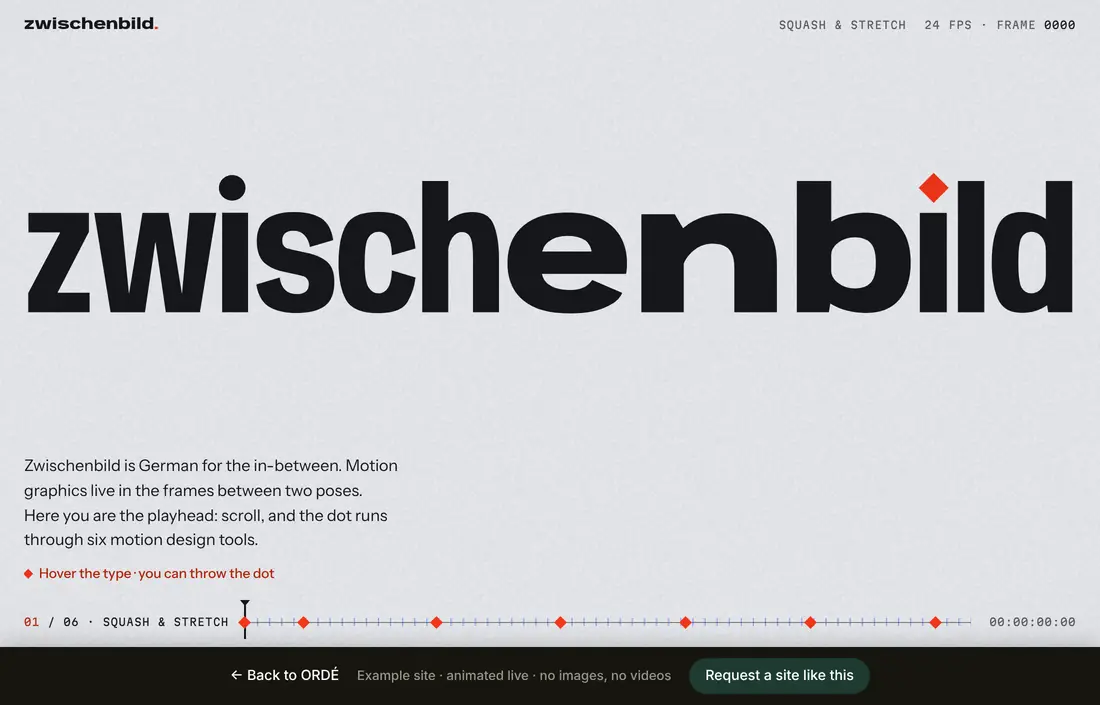
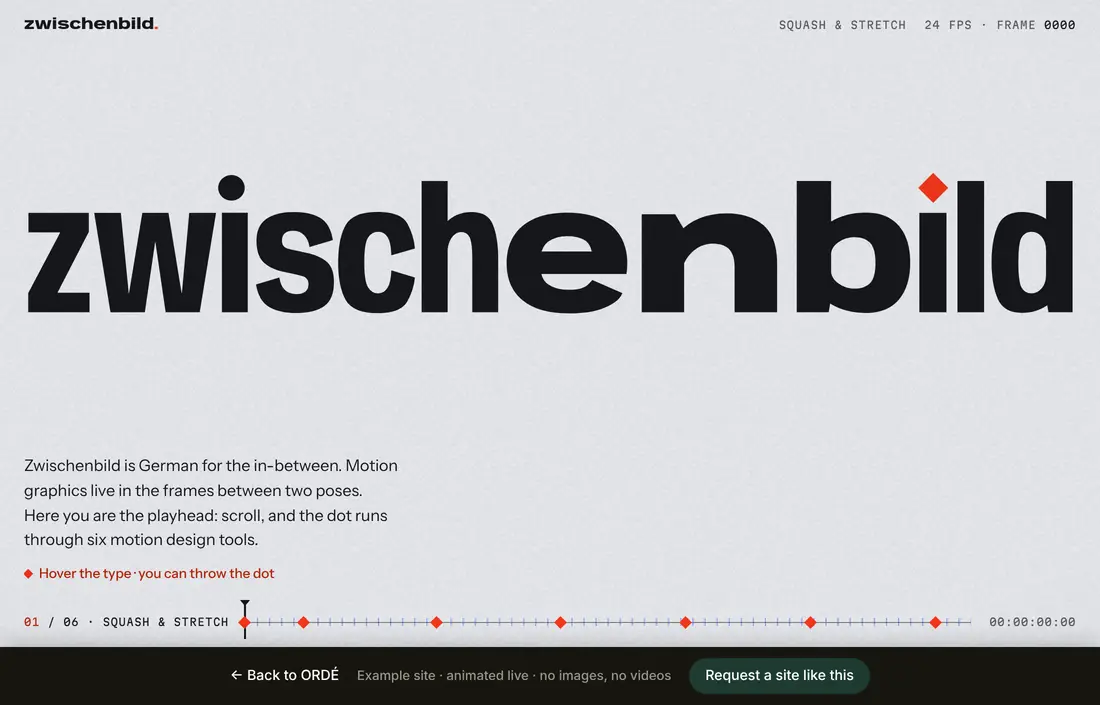
Zwischenbild: Riesenwort hinter jeder Szene
Das Werkzeugwort steht riesig in Papierton hinter der Grafik und führt sein
Werkzeug selbst aus: atmet mit der Easing-Kurve, morpht in der Breite, wird
mit der Linie beschnitten, stapelt Kopien, hüpft in der Stagger-Welle.
Vorschaubilder neu.

Claude-Session: https://claude.ai/code/session_01Y1TQqoiUWHJQJgLAwjVxL5

Changed region(s): [[0.8345, 0.2496, 0.8655, 0.2809]]

diff --git a/demos/zwischenbild/index.html b/demos/zwischenbild/index.html
@@ -28,6 +28,9 @@
    - Text: jede Szene steigt mit ihrem eigenen Werkzeug ein (Overshoot, Formmaske, Trim-Strich, Kopien, Stagger),
      keine Kennzeile über Überschriften (impeccable); Szene und Nummer stehen in der Zeitleiste (ORDE-STIL Regel 21)
    - Neigung nach Scrolltempo (Lenis-Tempo als skewY), Korn und Vignette über allem
+   - Riesenwort hinter jeder Szene (Muster von motionsites.ai, Nachtrag 20.11.2026): das Werkzeugwort in
+     Papierton, und es führt sein Werkzeug selbst aus (atmet mit der Kurve, morpht in der Breite, wird
+     beschnitten, stapelt Kopien, hüpft in der Welle). Schrift und Grafik verschränkt, live statt Video.
    - Handwerk: Pixeldichte höchstens 2, bei langsamem Gerät 1; Lenis aus bei "weniger Bewegung"
    - Text in Rot/Blau nur in den dunklen Texttönen (5,3 : 1 und 5,9 : 1), helle Töne nur für Formen
    - Referenzen (awesome-design-md, nur Rhythmus): framer (Seite als Arbeitsfläche, Akzent für Auswahl und Fokus),
@@ -41,6 +44,7 @@
   --rot:#F2361A;
   --blau-text:#2448D8;
   --blau-hell:#B9C7FF;
+  --papier-tief:#D8DBE2;
   --rot-text:#B8240B;
   --a1:8px;--a2:12px;--a3:16px;--a4:24px;--a5:32px;--a6:48px;
   --linie:rgba(21,23,28,.16);
@@ -65,7 +69,15 @@ a{color:inherit}
 html{scrollbar-color:var(--graphit) var(--papier);scrollbar-width:thin}
 :focus-visible{outline:2px solid var(--blau);outline-offset:3px}
 
-#leinwand{position:fixed;inset:0;width:100%;height:100%;z-index:0;pointer-events:none;display:block}
+#leinwand{position:fixed;inset:0;width:100%;height:100%;z-index:1;pointer-events:none;display:block}
+/* Riesenwort hinter der Grafik: das Wort führt sein Werkzeug selbst aus */
+.riesen{position:fixed;inset:0;z-index:0;pointer-events:none;overflow:hidden}
+.rw{position:absolute;left:50%;top:0;transform:translateX(-50%);white-space:nowrap;overflow:hidden;padding:.06em .04em .1em;font:900 100px/.9 var(--display);letter-spacing:-.035em;color:var(--papier-tief);font-variation-settings:"wdth" 100}
+.rw-m{display:inline-block}
+.rw-m>span{display:inline-block}
+.rw-i{display:inline-block;transform:translateY(135%);transition:transform .3s var(--raus)}
+.rw.an .rw-i{transform:none;transition:transform 1.1s var(--rein) .25s}
+@media (prefers-reduced-motion:reduce){.rw-i,.rw.an .rw-i{transition:none}}
 .korn{position:fixed;inset:-50%;z-index:40;pointer-events:none;opacity:.07;mix-blend-mode:multiply;background-size:180px 180px}
 .vignette{position:fixed;inset:0;z-index:39;pointer-events:none;background:radial-gradient(120% 90% at 50% 45%,transparent 55%,rgba(21,23,28,.07))}
 
@@ -183,6 +195,13 @@ main{position:relative;z-index:2}
 </head>
 <body>
 <canvas id="leinwand" aria-hidden="true"></canvas>
+<div class="riesen" aria-hidden="true">
+  <span class="rw" data-szene="easing"><span class="rw-i"><span class="rw-m">Easing</span></span></span>
+  <span class="rw" data-szene="morph"><span class="rw-i"><span class="rw-m">Morph</span></span></span>
+  <span class="rw" data-szene="trim"><span class="rw-i"><span class="rw-m">Trim</span></span></span>
+  <span class="rw" data-szene="repeater"><span class="rw-i"><span class="rw-m">Repeat</span></span></span>
+  <span class="rw" data-szene="stagger"><span class="rw-i"><span class="rw-m">Stagger</span></span></span>
+</div>
 <div class="vignette" aria-hidden="true"></div>
 <div class="korn" id="korn" aria-hidden="true"></div>
 
@@ -323,7 +342,7 @@ function groesse() {
   if (mobil) { x0 = 16; x1 = W - 16; y0 = oben + 34; y1 = Math.max(y0 + 200, H * .56); }
   else { x0 = Math.max(W * .40, 470); x1 = W - Math.max(40, W * .05); y0 = oben + 20; y1 = H - balken - 70; }
   K = { x0, x1, y0, y1, cx: (x0 + x1) / 2, cy: (y0 + y1) / 2, w: x1 - x0, h: y1 - y0, s: Math.min(x1 - x0, y1 - y0) };
-  rasterBauen(); easingLayout(); titelEinpassen();
+  rasterBauen(); easingLayout(); titelEinpassen(); riesenEinpassen();
 }
 
 /* ---------- Zeichnen ---------- */
@@ -613,6 +632,49 @@ function repKopie(i, n, p, tw) {
 const wortEls = $$(".end-titel .w");
 let hopZuletzt = -1;
 
+/* ---------- Riesenwort ---------- */
+const RW = { wert: 0, mk: 0, me: 0, ta: 0, te: 1, rn: 0, rspin: 0, sk: 0, sq: 0, san: false };
+const rws = Object.fromEntries($$(".rw").map((el) => [el.dataset.szene, { el, m: el.querySelector(".rw-m"), zuletzt: "" }]));
+// Stagger-Wort in Buchstaben teilen
+(() => { const m = rws.stagger.m, t = m.textContent; m.textContent = ""; [...t].forEach((c) => { const s = document.createElement("span"); s.textContent = c; m.appendChild(s); }); rws.stagger.bu = [...m.children]; })();
+const MORPH_BREITE = [100, 58, 142, 66, 134, 100];
+const TIEF = rgb(farbe("--papier-tief")), PAPIER = rgb(farbe("--papier"));
+function riesenEinpassen() {
+  for (const k in rws) {
+    const r = rws[k];
+    r.el.style.fontSize = "100px"; r.m.style.cssText = ""; r.el.style.fontVariationSettings = "";
+    if (k === "morph") r.el.style.fontVariationSettings = `"wdth" ${Math.max(...MORPH_BREITE)}`;
+    if (k === "easing") r.m.style.letterSpacing = ".02em";
+    const b = r.el.offsetWidth;
+    r.m.style.cssText = ""; r.el.style.fontVariationSettings = "";
+    const fs = Math.min(100 * (W - (mobil ? 24 : 40)) / b, mobil ? K.h * .42 : H * .44);
+    r.el.style.fontSize = fs + "px";
+    r.el.style.top = (K.cy - fs * .58) + "px";
+    r.zuletzt = "";
+  }
+}
+function riesenwort(id, p, an) {
+  for (const k in rws) rws[k].el.classList.toggle("an", k === id && an);
+  const r = rws[id]; if (!r) return;
+  let stil = "";
+  if (id === "easing") stil = `letter-spacing:${(lerp(-.035, .02, clamp(RW.wert, -.2, 1.25))).toFixed(4)}em`;
+  else if (id === "morph") { const wd = lerp(MORPH_BREITE[RW.mk], MORPH_BREITE[RW.mk + 1], RW.me); r.el.style.fontVariationSettings = `"wdth" ${wd.toFixed(1)}`; }
+  else if (id === "trim") stil = `clip-path:inset(0 ${((1 - RW.te) * 100).toFixed(2)}% 0 ${(RW.ta * 100).toFixed(2)}%)`;
+  else if (id === "repeater") {
+    const n = Math.round(RW.rn * 10), sch = [], a = RW.rspin * 1.5 + .7;
+    for (let i = 1; i <= n; i++) { const f = i / 11; sch.push(`${(Math.cos(a) * i * .018).toFixed(4)}em ${(Math.sin(a) * i * .018).toFixed(4)}em 0 ${mische(TIEF, PAPIER, f)}`); }
+    stil = `text-shadow:${sch.length ? sch.join(",") : "none"}`;
+  } else if (id === "stagger") {
+    const bu = rws.stagger.bu, nB = bu.length;
+    bu.forEach((s, i) => {
+      const u = i / (nB - 1), d = [u, Math.abs(u - .5) * 2, 1 - u, hash(i + 3)][RW.sk];
+      const ph = RW.san ? clamp((RW.sq * 1.6 - d * .6 - .1) / .5) : 0, w = Math.sin(Math.PI * ph);
+      s.style.transform = w > .001 ? `translateY(${(-w * .14).toFixed(3)}em) scale(${(1 - w * .22).toFixed(3)})` : "";
+    });
+  }
+  if (stil !== r.zuletzt) { r.m.style.cssText = stil; r.zuletzt = stil; }
+}
+
 /* ---------- Rendern ---------- */
 let letzteZeit = performance.now() / 1000, zeit = 0;
 const hudBild = $("#hudBild"), hudWert = $("#hudWert"), zlNr = $("#zlNr"), zlName = $("#zlName"), zlZeit = $("#zlZeit"), kopf = $("#kopf"), spur = $("#spur");
@@ -667,6 +729,7 @@ function bild() {
   else if (id === "stagger") wert = szeneStagger(p, dt);
   else wert = szeneAbspann(p, dt);
   if (wert !== letzterWert) { hudWert.textContent = wert; letzterWert = wert; }
+  riesenwort(id, p, textAn);
   if (id !== "held") buchstabenBewegen(zeit, dt, false);
   requestAnimationFrame(bild);
 }
@@ -810,6 +873,7 @@ function szeneEasing(p, dt) {
   const s = tempo("ease", x, yy, dt);
   ball(x, yy, rr, { vx: aus > 0 ? s.vx * .3 : s.vx, vy: s.vy * .3 });
   const kurv = (eigene.slot === z.k && eigene.b) ? { n: "eigene Kurve" } : KURVEN[z.k];
+  RW.wert = z.wert;
   setzeText(kurveText, `cubic-bezier(${b.map((v) => +v.toFixed(2)).join(", ")}) · ${kurv.n}`);
   return `Kurve ${kurv.n} · t ${komma(z.t, 2)}`;
 }
@@ -847,6 +911,7 @@ function transformRahmen(b, a, cx, cy) {
 function szeneMorph(p, dt) {
   const R0 = K.s * .34, cx = K.cx, cy = K.cy;
   const st = morphZustand(p);
+  RW.mk = st.k; RW.me = st.e;
   // Feder: gedrückt sinkt die Form ein, losgelassen schwingt sie nach
   const ziel = druck.an ? .74 : 1;
   druck.v += (ziel - druck.s) * (druck.an ? 90 : 520) * dt; druck.v *= Math.exp(-(druck.an ? 14 : 7) * dt); druck.s += druck.v * dt;
@@ -891,6 +956,7 @@ function szeneTrim(p, dt) {
   if (seg(p, .86, .99) > 0) zug(pts, 0, 1, mische(RGB.blau, RGB.rot, z), lerp(1, lwEnde, expoInOut(z)));
   else zug(pts, 0, 1, führ > 0 ? mische(RGB.graphit, RGB.blau, führ) : C.graphit, lerp(3, 1, führ));
   // Drei Linien jagen sich
+  RW.ta = seg(p, .33, .8) >= 1 ? 1 : 0; RW.te = 1;
   const farben = [C.graphit, C.rot, C.blau], breiten = [5, 3.2, 3.2];
   let txt = "Anfang 0 % · Ende 100 %";
   for (let j = 0; j < 3; j++) {
@@ -898,6 +964,7 @@ function szeneTrim(p, dt) {
     if (q <= 0 || q >= 1) continue;
     const ende = expoInOut(clamp(q * 1.35)), anfang = expoInOut(clamp(q * 1.35 - .35));
     zug(pts, anfang, ende, farben[j], breiten[j]);
+    if (j === 0) { RW.ta = anfang; RW.te = ende; }
     if (j === 0) txt = `Anfang ${Math.round(anfang * 100)} % · Ende ${Math.round(ende * 100)} % · Versatz 3`;
   }
   setzeText(trimText, txt);
@@ -909,6 +976,7 @@ function szeneRepeater(p, dt) {
   const N = repZahl(), cx = K.cx, cy = K.cy;
   const ws = Math.max(4, K.s * .028), Ls = K.s * .16;
   const n = Math.max(1, Math.round(lerp(1, N, expoInOut(seg(p, .04, .38)))));
+  RW.rn = seg(p, .04, .38); RW.rspin = drall.spin + drall.drall;
   if (!RM) {
     drall.spin += dt * .06;
     const zd = zeiger.aktiv ? (zeiger.sx / W - .5) * 2.2 : 0;
@@ -953,7 +1021,7 @@ function szeneStagger(p, dt) {
   const k = clamp(Math.floor((p - anf) / sl), 0, 3);
   const q = p < anf ? 0 : seg(p, anf + k * sl, anf + (k + 1) * sl);
   const aus = seg(p, .86, 1);
-  const welle = WELLEN[k];
+  const welle = WELLEN[k]; RW.sk = k; RW.sq = q; RW.san = p >= anf;
   let bewegt = 0;
   // Ursprung markieren
   const ursprung = [

diff --git a/demos/zwischenbild/en.html b/demos/zwischenbild/en.html
@@ -28,6 +28,9 @@
    - Text: jede Szene steigt mit ihrem eigenen Werkzeug ein (Overshoot, Formmaske, Trim-Strich, Kopien, Stagger),
      keine Kennzeile über Überschriften (impeccable); Szene und Nummer stehen in der Zeitleiste (ORDE-STIL Regel 21)
    - Neigung nach Scrolltempo (Lenis-Tempo als skewY), Korn und Vignette über allem
+   - Riesenwort hinter jeder Szene (Muster von motionsites.ai, Nachtrag 20.11.2026): das Werkzeugwort in
+     Papierton, und es führt sein Werkzeug selbst aus (atmet mit der Kurve, morpht in der Breite, wird
+     beschnitten, stapelt Kopien, hüpft in der Welle). Schrift und Grafik verschränkt, live statt Video.
    - Handwerk: Pixeldichte höchstens 2, bei langsamem Gerät 1; Lenis aus bei "weniger Bewegung"
    - Text in Rot/Blau nur in den dunklen Texttönen (5,3 : 1 und 5,9 : 1), helle Töne nur für Formen
    - Referenzen (awesome-design-md, nur Rhythmus): framer (Seite als Arbeitsfläche, Akzent für Auswahl und Fokus),
@@ -41,6 +44,7 @@
   --rot:#F2361A;
   --blau-text:#2448D8;
   --blau-hell:#B9C7FF;
+  --papier-tief:#D8DBE2;
   --rot-text:#B8240B;
   --a1:8px;--a2:12px;--a3:16px;--a4:24px;--a5:32px;--a6:48px;
   --linie:rgba(21,23,28,.16);
@@ -65,7 +69,15 @@ a{color:inherit}
 html{scrollbar-color:var(--graphit) var(--papier);scrollbar-width:thin}
 :focus-visible{outline:2px solid var(--blau);outline-offset:3px}
 
-#leinwand{position:fixed;inset:0;width:100%;height:100%;z-index:0;pointer-events:none;display:block}
+#leinwand{position:fixed;inset:0;width:100%;height:100%;z-index:1;pointer-events:none;display:block}
+/* Riesenwort hinter der Grafik: das Wort führt sein Werkzeug selbst aus */
+.riesen{position:fixed;inset:0;z-index:0;pointer-events:none;overflow:hidden}
+.rw{position:absolute;left:50%;top:0;transform:translateX(-50%);white-space:nowrap;overflow:hidden;padding:.06em .04em .1em;font:900 100px/.9 var(--display);letter-spacing:-.035em;color:var(--papier-tief);font-variation-settings:"wdth" 100}
+.rw-m{display:inline-block}
+.rw-m>span{display:inline-block}
+.rw-i{display:inline-block;transform:translateY(135%);transition:transform .3s var(--raus)}
+.rw.an .rw-i{transform:none;transition:transform 1.1s var(--rein) .25s}
+@media (prefers-reduced-motion:reduce){.rw-i,.rw.an .rw-i{transition:none}}
 .korn{position:fixed;inset:-50%;z-index:40;pointer-events:none;opacity:.07;mix-blend-mode:multiply;background-size:180px 180px}
 .vignette{position:fixed;inset:0;z-index:39;pointer-events:none;background:radial-gradient(120% 90% at 50% 45%,transparent 55%,rgba(21,23,28,.07))}
 
@@ -183,6 +195,13 @@ main{position:relative;z-index:2}
 </head>
 <body>
 <canvas id="leinwand" aria-hidden="true"></canvas>
+<div class="riesen" aria-hidden="true">
+  <span class="rw" data-szene="easing"><span class="rw-i"><span class="rw-m">Easing</span></span></span>
+  <span class="rw" data-szene="morph"><span class="rw-i"><span class="rw-m">Morph</span></span></span>
+  <span class="rw" data-szene="trim"><span class="rw-i"><span class="rw-m">Trim</span></span></span>
+  <span class="rw" data-szene="repeater"><span class="rw-i"><span class="rw-m">Repeat</span></span></span>
+  <span class="rw" data-szene="stagger"><span class="rw-i"><span class="rw-m">Stagger</span></span></span>
+</div>
 <div class="vignette" aria-hidden="true"></div>
 <div class="korn" id="korn" aria-hidden="true"></div>
 
@@ -323,7 +342,7 @@ function groesse() {
   if (mobil) { x0 = 16; x1 = W - 16; y0 = oben + 34; y1 = Math.max(y0 + 200, H * .56); }
   else { x0 = Math.max(W * .40, 470); x1 = W - Math.max(40, W * .05); y0 = oben + 20; y1 = H - balken - 70; }
   K = { x0, x1, y0, y1, cx: (x0 + x1) / 2, cy: (y0 + y1) / 2, w: x1 - x0, h: y1 - y0, s: Math.min(x1 - x0, y1 - y0) };
-  rasterBauen(); easingLayout(); titelEinpassen();
+  rasterBauen(); easingLayout(); titelEinpassen(); riesenEinpassen();
 }
 
 /* ---------- Zeichnen ---------- */
@@ -613,6 +632,49 @@ function repKopie(i, n, p, tw) {
 const wortEls = $$(".end-titel .w");
 let hopZuletzt = -1;
 
+/* ---------- Riesenwort ---------- */
+const RW = { wert: 0, mk: 0, me: 0, ta: 0, te: 1, rn: 0, rspin: 0, sk: 0, sq: 0, san: false };
+const rws = Object.fromEntries($$(".rw").map((el) => [el.dataset.szene, { el, m: el.querySelector(".rw-m"), zuletzt: "" }]));
+// Stagger-Wort in Buchstaben teilen
+(() => { const m = rws.stagger.m, t = m.textContent; m.textContent = ""; [...t].forEach((c) => { const s = document.createElement("span"); s.textContent = c; m.appendChild(s); }); rws.stagger.bu = [...m.children]; })();
+const MORPH_BREITE = [100, 58, 142, 66, 134, 100];
+const TIEF = rgb(farbe("--papier-tief")), PAPIER = rgb(farbe("--papier"));
+function riesenEinpassen() {
+  for (const k in rws) {
+    const r = rws[k];
+    r.el.style.fontSize = "100px"; r.m.style.cssText = ""; r.el.style.fontVariationSettings = "";
+    if (k === "morph") r.el.style.fontVariationSettings = `"wdth" ${Math.max(...MORPH_BREITE)}`;
+    if (k === "easing") r.m.style.letterSpacing = ".02em";
+    const b = r.el.offsetWidth;
+    r.m.style.cssText = ""; r.el.style.fontVariationSettings = "";
+    const fs = Math.min(100 * (W - (mobil ? 24 : 40)) / b, mobil ? K.h * .42 : H * .44);
+    r.el.style.fontSize = fs + "px";
+    r.el.style.top = (K.cy - fs * .58) + "px";
+    r.zuletzt = "";
+  }
+}
+function riesenwort(id, p, an) {
+  for (const k in rws) rws[k].el.classList.toggle("an", k === id && an);
+  const r = rws[id]; if (!r) return;
+  let stil = "";
+  if (id === "easing") stil = `letter-spacing:${(lerp(-.035, .02, clamp(RW.wert, -.2, 1.25))).toFixed(4)}em`;
+  else if (id === "morph") { const wd = lerp(MORPH_BREITE[RW.mk], MORPH_BREITE[RW.mk + 1], RW.me); r.el.style.fontVariationSettings = `"wdth" ${wd.toFixed(1)}`; }
+  else if (id === "trim") stil = `clip-path:inset(0 ${((1 - RW.te) * 100).toFixed(2)}% 0 ${(RW.ta * 100).toFixed(2)}%)`;
+  else if (id === "repeater") {
+    const n = Math.round(RW.rn * 10), sch = [], a = RW.rspin * 1.5 + .7;
+    for (let i = 1; i <= n; i++) { const f = i / 11; sch.push(`${(Math.cos(a) * i * .018).toFixed(4)}em ${(Math.sin(a) * i * .018).toFixed(4)}em 0 ${mische(TIEF, PAPIER, f)}`); }
+    stil = `text-shadow:${sch.length ? sch.join(",") : "none"}`;
+  } else if (id === "stagger") {
+    const bu = rws.stagger.bu, nB = bu.length;
+    bu.forEach((s, i) => {
+      const u = i / (nB - 1), d = [u, Math.abs(u - .5) * 2, 1 - u, hash(i + 3)][RW.sk];
+      const ph = RW.san ? clamp((RW.sq * 1.6 - d * .6 - .1) / .5) : 0, w = Math.sin(Math.PI * ph);
+      s.style.transform = w > .001 ? `translateY(${(-w * .14).toFixed(3)}em) scale(${(1 - w * .22).toFixed(3)})` : "";
+    });
+  }
+  if (stil !== r.zuletzt) { r.m.style.cssText = stil; r.zuletzt = stil; }
+}
+
 /* ---------- Rendern ---------- */
 let letzteZeit = performance.now() / 1000, zeit = 0;
 const hudBild = $("#hudBild"), hudWert = $("#hudWert"), zlNr = $("#zlNr"), zlName = $("#zlName"), zlZeit = $("#zlZeit"), kopf = $("#kopf"), spur = $("#spur");
@@ -667,6 +729,7 @@ function bild() {
   else if (id === "stagger") wert = szeneStagger(p, dt);
   else wert = szeneAbspann(p, dt);
   if (wert !== letzterWert) { hudWert.textContent = wert; letzterWert = wert; }
+  riesenwort(id, p, textAn);
   if (id !== "held") buchstabenBewegen(zeit, dt, false);
   requestAnimationFrame(bild);
 }
@@ -810,6 +873,7 @@ function szeneEasing(p, dt) {
   const s = tempo("ease", x, yy, dt);
   ball(x, yy, rr, { vx: aus > 0 ? s.vx * .3 : s.vx, vy: s.vy * .3 });
   const kurv = (eigene.slot === z.k && eigene.b) ? { n: "custom curve" } : KURVEN[z.k];
+  RW.wert = z.wert;
   setzeText(kurveText, `cubic-bezier(${b.map((v) => +v.toFixed(2)).join(", ")}) · ${kurv.n}`);
   return `Curve ${kurv.n} · t ${komma(z.t, 2)}`;
 }
@@ -847,6 +911,7 @@ function transformRahmen(b, a, cx, cy) {
 function szeneMorph(p, dt) {
   const R0 = K.s * .34, cx = K.cx, cy = K.cy;
   const st = morphZustand(p);
+  RW.mk = st.k; RW.me = st.e;
   // Feder: gedrückt sinkt die Form ein, losgelassen schwingt sie nach
   const ziel = druck.an ? .74 : 1;
   druck.v += (ziel - druck.s) * (druck.an ? 90 : 520) * dt; druck.v *= Math.exp(-(druck.an ? 14 : 7) * dt); druck.s += druck.v * dt;
@@ -891,6 +956,7 @@ function szeneTrim(p, dt) {
   if (seg(p, .86, .99) > 0) zug(pts, 0, 1, mische(RGB.blau, RGB.rot, z), lerp(1, lwEnde, expoInOut(z)));
   else zug(pts, 0, 1, führ > 0 ? mische(RGB.graphit, RGB.blau, führ) : C.graphit, lerp(3, 1, führ));
   // Drei Linien jagen sich
+  RW.ta = seg(p, .33, .8) >= 1 ? 1 : 0; RW.te = 1;
   const farben = [C.graphit, C.rot, C.blau], breiten = [5, 3.2, 3.2];
   let txt = "Start 0% · End 100%";
   for (let j = 0; j < 3; j++) {
@@ -898,6 +964,7 @@ function szeneTrim(p, dt) {
     if (q <= 0 || q >= 1) continue;
     const ende = expoInOut(clamp(q * 1.35)), anfang = expoInOut(clamp(q * 1.35 - .35));
     zug(pts, anfang, ende, farben[j], breiten[j]);
+    if (j === 0) { RW.ta = anfang; RW.te = ende; }
     if (j === 0) txt = `Start ${Math.round(anfang * 100)}% · End ${Math.round(ende * 100)}% · Offset 3`;
   }
   setzeText(trimText, txt);
@@ -909,6 +976,7 @@ function szeneRepeater(p, dt) {
   const N = repZahl(), cx = K.cx, cy = K.cy;
   const ws = Math.max(4, K.s * .028), Ls = K.s * .16;
   const n = Math.max(1, Math.round(lerp(1, N, expoInOut(seg(p, .04, .38)))));
+  RW.rn = seg(p, .04, .38); RW.rspin = drall.spin + drall.drall;
   if (!RM) {
     drall.spin += dt * .06;
     const zd = zeiger.aktiv ? (zeiger.sx / W - .5) * 2.2 : 0;
@@ -953,7 +1021,7 @@ function szeneStagger(p, dt) {
   const k = clamp(Math.floor((p - anf) / sl), 0, 3);
   const q = p < anf ? 0 : seg(p, anf + k * sl, anf + (k + 1) * sl);
   const aus = seg(p, .86, 1);
-  const welle = WELLEN[k];
+  const welle = WELLEN[k]; RW.sk = k; RW.sq = q; RW.san = p >= anf;
   let bewegt = 0;
   // Ursprung markieren
   const ursprung = [
